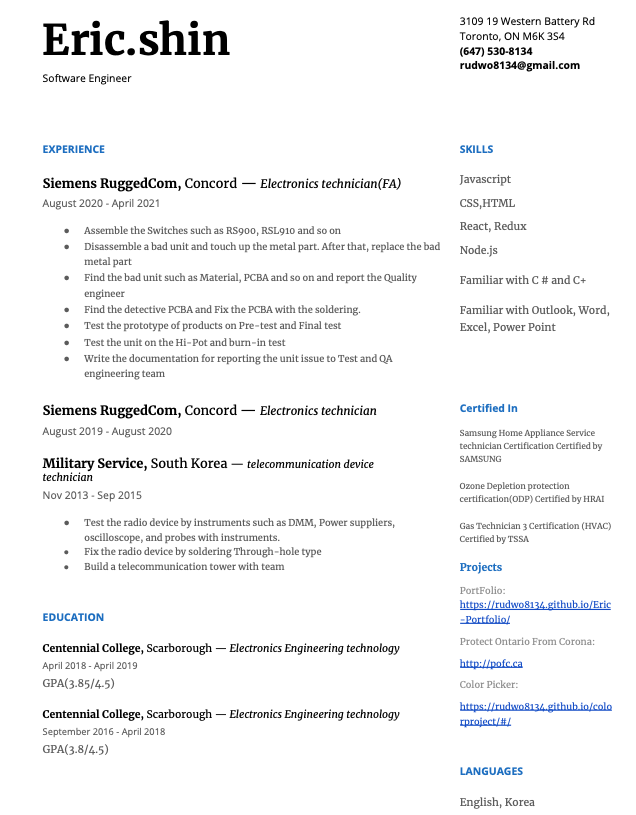
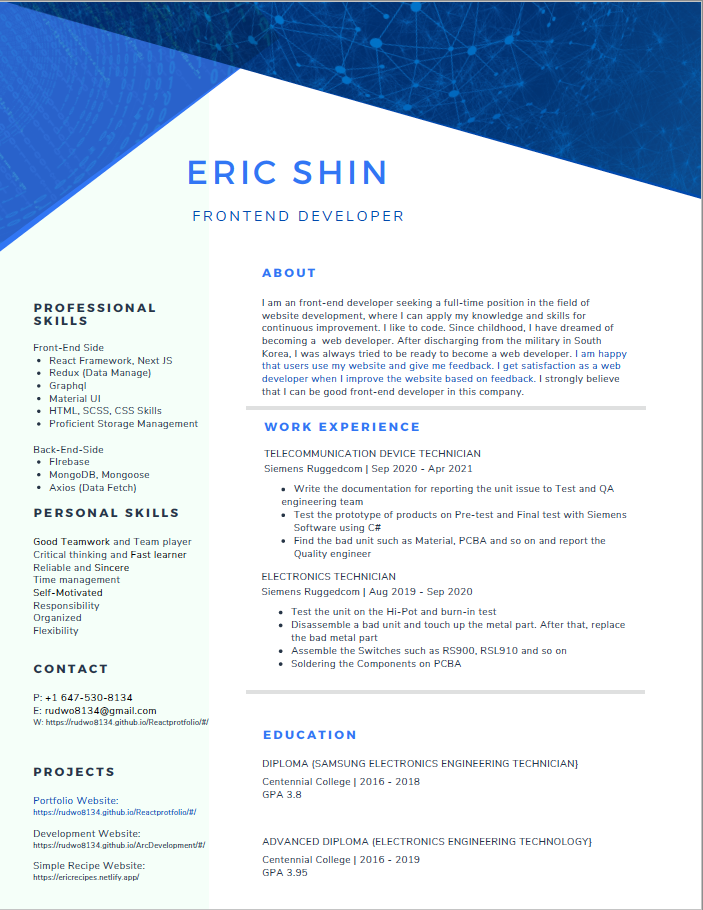
update the resume and change the picture for resume

diff --git a/src/components/intro/index.jsx b/src/components/intro/index.jsx
@@ -38,57 +38,64 @@ const Intro = (props) => {
   },[])
 
     return (
-        <>
-          <InfoContainer  lightBg={lightBg} id={id}>
-            <InfoWrapper >
+      <>
+        <InfoContainer lightBg={lightBg} id={id}>
+          <InfoWrapper>
             <InfoRow imgStart={imgStart}>
-            <Column1>
-            <TextWrapper data-aos='fade-up'>
-                <TopLine>{topLinetext}</TopLine>
-                <Heading lightText={lightText}>{headline}</Heading>
-                <Subtitle darkText={darkText}>{description} in Canada <CanadaMark/></Subtitle>
-                <Skills>
-                I have passion to build the code on the front-end side.
-                I have a Advanced-diploma on Cenetennial college. 
-                I have many expriences on the workplace. 
-                I was recently worked in Siemens. So I had a lot of chances to get Experiences about electronics and software.
-                </Skills>
-                <BtnWrap>
-                    <Button 
-                    onClick={handlebutton}
-                    smooth={true}
-                    duration={500}
-                    spy={true}
-                    exact='true'
-                    offset={-80}
-                    primary={primary ? 1 : 0}
-                    dark = {dark ? 1 : 0}
-                    dark2 = {dark2 ? 1 : 0}
-                    to='home'>Watch Resume</Button>
-                </BtnWrap>
-            </TextWrapper>
-            </Column1>
-            <Column2>
-            <ImgWrap data-aos='fade-right'>
-            <Img src={img} alt={alt}/>
-            </ImgWrap>
-            </Column2>
+              <Column1>
+                <TextWrapper data-aos="fade-up">
+                  <TopLine>{topLinetext}</TopLine>
+                  <Heading lightText={lightText}>{headline}</Heading>
+                  <Subtitle darkText={darkText}>
+                    {description} in Canada <CanadaMark />
+                  </Subtitle>
+                  <Skills>
+                    I have passion to build the code on the front-end side. I
+                    have a Advanced-diploma on Cenetennial college. I have many
+                    expriences on the workplace. I was recently worked in
+                    Siemens. So I had a lot of chances to get Experiences about
+                    electronics and software.
+                  </Skills>
+                  <BtnWrap>
+                    <Button
+                      onClick={handlebutton}
+                      smooth={true}
+                      duration={500}
+                      spy={true}
+                      exact="true"
+                      offset={-80}
+                      primary={primary ? 1 : 0}
+                      dark={dark ? 1 : 0}
+                      dark2={dark2 ? 1 : 0}
+                      to="home"
+                    >
+                      Watch Resume
+                    </Button>
+                  </BtnWrap>
+                </TextWrapper>
+              </Column1>
+              <Column2>
+                <ImgWrap data-aos="fade-right">
+                  <Img src={img} alt={alt} />
+                </ImgWrap>
+              </Column2>
             </InfoRow>
-            </InfoWrapper>
-            <Detaildiv offset={-80} show={clickpop} >
-            <Detailcacelbutton onClick={handlebutton}/>
+          </InfoWrapper>
+          <Detaildiv offset={-80} show={clickpop}>
+            <Detailcacelbutton onClick={handlebutton} />
             <DetailcontentContainer>
-                <DetailText>
+              <DetailText>
                 <DetailHeader>Resume</DetailHeader>
-                <DetailSub href='https://docs.google.com/document/d/1R_ddsBG6n_OYaVIDmwQHuODCGB9VAbYdsRh6gpCrURc/export?format=pdf'>Click to download</DetailSub>
-                </DetailText>
-                <Resumeimg src={Image}/>
+                <DetailSub href="https://drive.google.com/file/d/1nt8QIR-231gY3SQ3lnO75d3pnKW1QI_I/edit?format=pdf">
+                  Click to download
+                </DetailSub>
+              </DetailText>
+              <Resumeimg src={Image} />
             </DetailcontentContainer>
-            </Detaildiv>
-      
-          </InfoContainer>  
-        </>
-    )
+          </Detaildiv>
+        </InfoContainer>
+      </>
+    );
 }
 
 export default Intro
